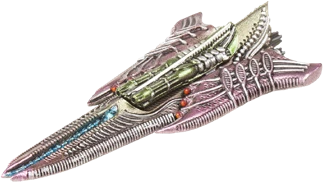
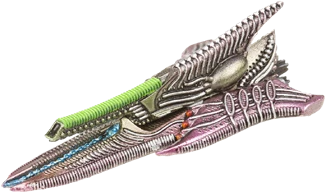
Build 428: a third of the variant photos were of a different vehicle
Jet, 2026-08-10: "so many of these are wrong or nonsensical." They were,
and the fault is in the matcher I shipped an hour ago.

One of its three routes, `loadout-by-weapon`, scored every caption in the
FACTION against a variant's guns and took the best. Nothing in it required
the photo to be of the same vehicle. So one "Wolverine Scout Buggy
(Missile)" was handed to a UCM Howitzer, an Eagle Heavy Gunship, a Harrier
Gunship, a Troop Buggy and a Wolverine, because all five carry a gun with
"missile" in the name. 58 of the 163 came through that route, and 22
captions were being used by more than one variant.

It is gone. The variant's name now has to appear in the old unit name, and
the loadout bracket is used only to choose BETWEEN several photos of that
same old unit. A keyword score is not allowed to stand in for identity.

The second fault was subtler and hit the route I did keep. Matching one
variant at a time cannot see that its siblings want the same photo, so
"Taranis Artillery Tank (Thor Bombard)" went to Taranis, and Thor is a
variant in its own right. Resolution is per UNIT now, in two passes: every
unit-name match is settled first and takes its photo out of the pool, then
the bracket picks over what is left. Taranis gets the Constellation
Missiles, Thor gets the Thor Bombard, Odin gets the Dual Railguns and
Hyperion gets the Hyperion Laser.

98 variants have art, down from 163, and no caption is used twice. The 65
that went were not coverage, they were wrong.
[…]

diff --git a/js/dzc-shell.js b/js/dzc-shell.js
@@ -43,7 +43,7 @@ const App = (() => {
    * a worse version of something already automatic. It is the build NUMBER,
    * so a report can say which one it came from and "that was fixed in 419"
    * becomes an answer instead of a guess. */
-  const BUILD = 427;
+  const BUILD = 428;
 
   /* Feedback goes to the maker's inbox through the reader's own mail app. The
    * body is prefilled with the four questions, because a bare mailto returns
@@ -580,7 +580,7 @@ const App = (() => {
    * already spends the app's budget for that glyph. */
   const CHANGELOG = [
     { date: '2026-08-10', title: 'A photo per variant, the Triton’s real upgrade rule, and Behemoths that were never banned', items: [
-      'Every variant that has a picture now shows its own. A Sabre and a Rapier are a tracked tank with a chainsaw gun and a hover tank with a long AA barrel, and the app showed the same photograph for both, because art was per unit and a unit holds up to four variants. 163 of the 199 variants have their own miniature now, on the block where you choose how many of them to take. They come from the previous edition’s cards, which printed as separate units what this edition lists as variants, so they are older sculpts; the 36 with no picture anywhere show nothing rather than the wrong thing.',
+      'Every variant that has a picture now shows its own. A Sabre and a Rapier are a tracked tank with a chainsaw gun and a hover tank with a long AA barrel, and the app showed the same photograph for both, because art was per unit and a unit holds up to four variants. 98 of the 199 variants have their own miniature now, on the block where you choose how many of them to take. They come from the previous edition’s cards, which printed as separate units what this edition lists as variants, so they are older sculpts; a variant whose model that edition never pictured shows nothing rather than something that is not it.',
       'The Triton’s upgrades. Its card offers three and stars two of them, and the star is what the footnote means: you may take the RM-1 Stealth Missile Battery alongside either the Twin RX-20 Miniguns or the RM-7 Skyhammer Missiles, just not the Miniguns and the Skyhammers together. The app was reading the footnote and refusing any second upgrade at all, which made the Triton’s commonest loadout unbuildable. It is the only card in the game with that note, and it is on both Tritons.',
       'Behemoths are not banned below 3000pts. They were being refused in any smaller game, on the strength of a line in the Behemoth introduction saying some of them are that big. It is not a rule, it says some, and nothing anywhere says which. What actually limits a Behemoth is the one rule 1.1 points at: it counts as a single Group against the quarter-of-your-points cap. So a 410pt Light Battle Mech in a 1750pt game, where a Group may cost 437, is legal, and it was being called illegal.'
     ] },

diff --git a/sw.js b/sw.js
@@ -3,7 +3,7 @@
 // populating the cache as resources are fetched.
 // Bump this on every deploy so existing clients purge the old cache on activate
 // (the app updates frequently — stale assets must not survive a new build).
-const CACHE = 'dzc-cache-v427';
+const CACHE = 'dzc-cache-v428';
 // Same-origin code/data that MUST be fresh when online. Network-first alone is
 // not enough: fetch() still consults the browser HTTP cache, so a client can
 // keep running a stale app.js for as long as GitHub Pages' cache headers allow.

diff --git a/tools/dzc/scan_variant_art.py b/tools/dzc/scan_variant_art.py
@@ -156,29 +156,103 @@ def read_gallery(pdf_dir):
 # ------------------------------------------------------------------ matching
 
 
+def resolve_unit(unit, pool):
+    """Photos for one unit's variants, assigned so no two share one.
+
+    Done per unit rather than per variant because the collisions are between
+    SIBLINGS: "Taranis Artillery Tank (Thor Bombard)" matches our Taranis on
+    the unit name and our Thor on the loadout, and only one of them can have
+    it. Resolving a variant at a time cannot see that, and the first version
+    gave the Thor photo to Taranis.
+
+    Two passes. The unit name is stronger evidence than the loadout bracket, so
+    every stem match is settled first and takes its photo out of the pool; the
+    bracket then picks over what is left.
+    """
+    variants = unit.get("variants") or []
+    out, taken = {}, set()
+
+    for v in variants:
+        row, how = match(unit, v, [c for c in pool if id(c) not in taken])
+        if row:
+            out[v["name"]] = (row, how)
+            taken.add(id(row))
+
+    # The bracket, for variants the unit name never named. "Odin Heavy Walker
+    # (Hyperion Laser)" is the Hyperion's photo and nothing else claims it.
+    for v in variants:
+        if v["name"] in out:
+            continue
+        nv = norm(v["name"])
+        word = re.compile(rf"\b{re.escape(nv)}\b")
+        left = [c for c in pool if id(c) not in taken and word.search(c["load"])]
+        if len(left) == 1:
+            out[v["name"]] = (left[0], "loadout-name")
+            taken.add(id(left[0]))
+    return out
+
+
 def match(unit, variant, pool):
-    """The gallery row for this variant, and how it was found."""
+    """The gallery row for this variant, and how it was found.
+
+    THE NAME HAS TO APPEAR. There is no route here that finds a photo by
+    weapon keywords alone, and there was: the first version of this scored
+    every caption in the FACTION against the variant's guns and took the best,
+    with nothing requiring the photo to be of the same vehicle. It handed one
+    "Wolverine Scout Buggy (Missile)" to a UCM Howitzer, an Eagle Heavy
+    Gunship, a Harrier Gunship, a Troop Buggy and a Wolverine, because all five
+    have a gun with "missile" in its name. 58 of 163 matches came through that
+    route and they were not near-misses, they were a different vehicle. Jet,
+    2026-08-10: "so many of these are wrong or nonsensical." Correct, and the
+    fault was that a keyword score was allowed to stand in for identity.
+
+    So the variant's name must appear in the old unit name, and the loadout is
+    used ONLY to choose between several photos of that same old unit.
+    """
     nv = norm(variant["name"])
     word = re.compile(rf"\b{re.escape(nv)}\b")
+    hits = [c for c in pool if word.search(c["stem"])]
 
-    hit = [c for c in pool if word.search(c["stem"])]
-    if hit:
-        return hit[0], "name-in-unit"
+    # A sibling's name in the caption means the photo is the SIBLING'S.
+    # "Taranis Artillery Tank (Thor Bombard)" matches our Taranis on the stem,
+    # but Thor is a variant in its own right and that is Thor's photo. The same
+    # trap sits on Odin/Hyperion and on Bus/Gun Bus, where the shorter name is
+    # a word inside the longer one.
+    sibs = [norm(v["name"]) for v in (unit.get("variants") or [])
+            if norm(v["name"]) and norm(v["name"]) != nv]
 
-    hit = [c for c in pool if word.search(c["load"])]
-    if hit:
-        return hit[0], "name-in-loadout"
+    def sibling_owns(c):
+        for s in sibs:
+            named = re.compile(rf"\b{re.escape(s)}\b")
+            # In the bracket: the photo is captioned as that sibling's loadout.
+            if named.search(c["load"]):
+                return True
+            # In the unit name, and a longer name than mine, so it is the more
+            # specific of the two. "Gun Bus" beats "Bus" for the same caption.
+            if len(s) > len(nv) and named.search(c["stem"]):
+                return True
+        return False
 
+    mine = [c for c in hits if not sibling_owns(c)] or hits
+
+    if len(mine) == 1:
+        return mine[0], "name"
+    if not mine:
+        return None, None
+
+    # Several photos of the same old unit, one per loadout. Now the guns are a
+    # fair way to choose, because every candidate is already the right vehicle.
     own = [w["name"] for w in (unit.get("weapons") or [])
            if w.get("box") == "variant" and w.get("variants") == [variant["name"]]]
     keys = {k for g in own for k in keywords(g)}
     if keys:
-        scored = [(len(keys & keywords(c["load"])), c) for c in pool if c["load"]]
-        scored = [s for s in scored if s[0] > 0]
-        if scored:
-            scored.sort(key=lambda s: -s[0])
-            return scored[0][1], "loadout-by-weapon"
-    return None, None
+        scored = sorted(((len(keys & keywords(c["load"])), c) for c in mine),
+                        key=lambda s: -s[0])
+        if scored[0][0] > 0 and (len(scored) == 1 or scored[0][0] > scored[1][0]):
+            return scored[0][1], "name+loadout"
+
+    # Still ambiguous. No photo beats a coin-flip between two loadouts.
+    return None, "ambiguous"
 
 
 # ------------------------------------------------------------------- writing
@@ -237,9 +311,10 @@ def main() -> int:
         pool = [c for c in gallery if c["faction"] == fac]
         arts = {}
         for u in data["units"]:
+            picked = resolve_unit(u, pool)
             for v in (u.get("variants") or []):
                 total += 1
-                row, how = match(u, v, pool)
+                row, how = picked.get(v["name"], (None, None))
                 routes[how] = routes.get(how, 0) + 1
                 if not row:
                     continue
